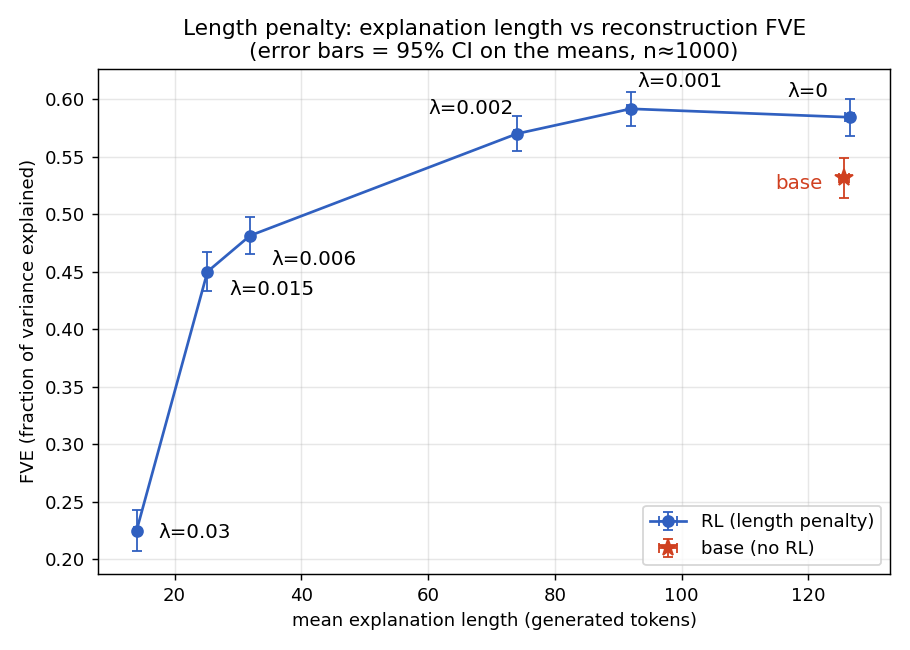
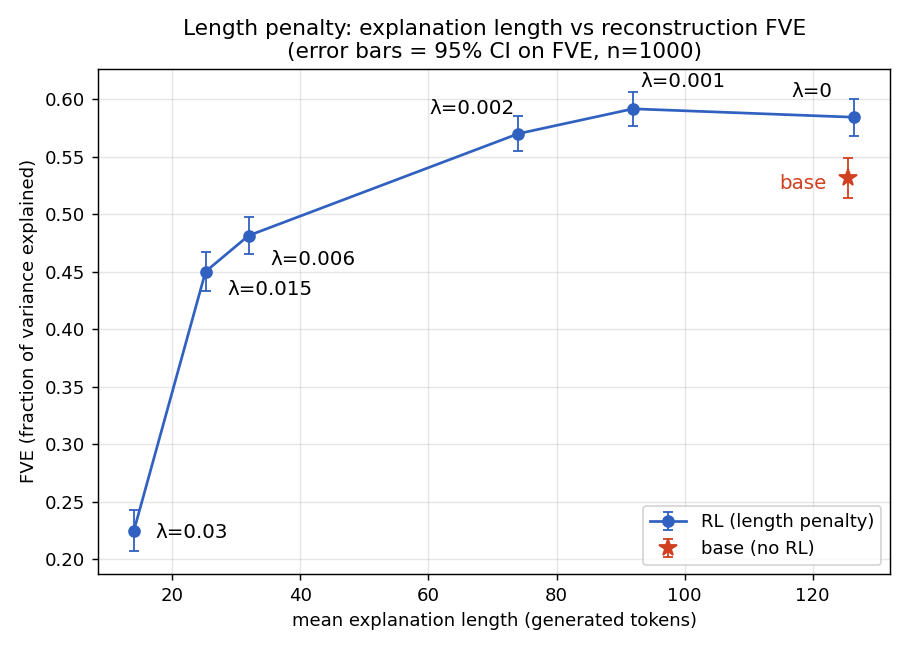
tradeoff plot: y-only (FVE) error bars, n=1000 (drop sub-token x bars; fixes legend)

diff --git a/vast_ops/plot_tradeoff.py b/vast_ops/plot_tradeoff.py
@@ -41,13 +41,14 @@ def main():
     def ci(x, key):
         v = x.get(key)
         return 1.96 * v if isinstance(v, (int, float)) else None
-    have_err = all(ci(x, "mean_tokens_sem") is not None and ci(x, "fve_sem") is not None for x in s)
+    # Only FVE (y) error bars — the length (x) SEM is sub-token, so x bars would be
+    # invisible and only clutter the legend with a horizontal stub.
+    have_err = all(ci(x, "fve_sem") is not None for x in s)
 
     fig, ax = plt.subplots(figsize=(7, 5))
     rt, rf = [x["mean_tokens"] for x in rl], [x["fve"] for x in rl]
     if have_err:
-        ax.errorbar(rt, rf, xerr=[ci(x, "mean_tokens_sem") for x in rl],
-                    yerr=[ci(x, "fve_sem") for x in rl], fmt="o-", color="#3060c0",
+        ax.errorbar(rt, rf, yerr=[ci(x, "fve_sem") for x in rl], fmt="o-", color="#3060c0",
                     ecolor="#3060c0", elinewidth=1, capsize=3, label="RL (length penalty)", zorder=3)
     else:
         ax.plot(rt, rf, "o-", color="#3060c0", label="RL (length penalty)", zorder=3)
@@ -61,7 +62,7 @@ def main():
     if base is not None:
         bx, by = base["mean_tokens"], base["fve"]
         if have_err:
-            ax.errorbar([bx], [by], xerr=[ci(base, "mean_tokens_sem")], yerr=[ci(base, "fve_sem")],
+            ax.errorbar([bx], [by], yerr=[ci(base, "fve_sem")],
                         fmt="*", markersize=10, color="#d04020", ecolor="#d04020",
                         elinewidth=1, capsize=3, linestyle="none", label="base (no RL)", zorder=4)
         else:
@@ -73,7 +74,7 @@ def main():
     ax.set_ylabel("FVE (fraction of variance explained)")
     ttl = "Length penalty: explanation length vs reconstruction FVE"
     if have_err:
-        ttl += "\n(error bars = 95% CI on the means, n≈1000)"
+        ttl += "\n(error bars = 95% CI on FVE, n=1000)"
     ax.set_title(ttl)
     ax.grid(True, alpha=0.3)
     ax.legend(loc="lower right")
